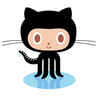
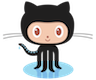
Various clean up items.

diff --git a/_layouts/base.html b/_layouts/base.html
@@ -27,16 +27,14 @@ layout: compress
     <title>Istio / {{ page.title }}</title>
     {% endif %}
 
+    <!-- Google Analytics -->
     <script>
-  (function(i,s,o,g,r,a,m){i['GoogleAnalyticsObject']=r;i[r]=i[r]||function(){
-  (i[r].q=i[r].q||[]).push(arguments)},i[r].l=1*new Date();a=s.createElement(o),
-  m=s.getElementsByTagName(o)[0];a.async=1;a.src=g;m.parentNode.insertBefore(a,m)
-  })(window,document,'script','https://www.google-analytics.com/analytics.js','ga');
-
-  ga('create', 'UA-98480406-1', 'auto');
-  ga('send', 'pageview');
-
-</script>
+        window.ga=window.ga||function(){(ga.q=ga.q||[]).push(arguments)};ga.l=+new Date;
+        ga('create', 'UA-98480406-1', 'auto');
+        ga('send', 'pageview');
+    </script>
+    <script async src='https://www.google-analytics.com/analytics.js'></script>
+    <!-- End Google Analytics -->
 
     <!-- Webfont -->
     <link href='https://fonts.googleapis.com/css?family=Roboto:400,100,100italic,300,300italic,400italic,500,500italic,700,700italic,900,900italic' rel='stylesheet' type='text/css'>
@@ -83,9 +81,5 @@ layout: compress
     <script src="{{home}}/js/buttons.js"></script>
     <script src="{{home}}/js/search.js"></script>
     <script src="{{home}}/js/prism.js"></script>
-
-    {% if page.customjs %}
-      <script async="" defer="" type="text/javascript" src="{{ page.customjs }}"></script>
-    {% endif %}
   </body>
 </html>

diff --git a/_sass/modules/_footer.scss b/_sass/modules/_footer.scss
@@ -97,7 +97,7 @@ footer {
   }
 
   .github {
-    @include social-icon('../img/icon_github.svg');
+    @include social-icon('../img/github.png');
   }
 
   .group {
@@ -106,10 +106,6 @@ footer {
 
   .stack-overflow {
     @include social-icon('../img/stackoverflow.png');
-  }
-
-  .slack {
-    @include social-icon('../img/slack.png');
   }
 
   .twitter {

diff --git a/_sass/base/_common.scss b/_sass/base/_common.scss
@@ -67,10 +67,14 @@ th {
 //    z-index: -1;
   }
 
+  div.toolbar {
+    top: -2px;
+  }
+
   .toolbar-item {
     a {
        background-color: $mainBrandColor;
-       color: $white
+       color: $white;
     }
   }
 }

diff --git a/_sass/layouts/_blog.scss b/_sass/layouts/_blog.scss
@@ -133,9 +133,10 @@
       }
     }
   }
-  .rssLink{
-    position:absolute;
-    top:-33px;
-    right:0px;
+
+  .rssLink {
+    position: absolute;
+    top: 10px;
+    right: 0px;
   }
 }

diff --git a/_includes/doc-side-nav.html b/_includes/doc-side-nav.html
@@ -39,11 +39,3 @@
 	</script>
 	{% endif %}
 </ul>
-
-<style>
-    .tree li { padding-left: 20px; }
-    .tree-toggle {
-        cursor: pointer;
-		margin-left: -1em;
-    }
-</style>

diff --git a/_sass/modules/_doc-nav.scss b/_sass/modules/_doc-nav.scss
@@ -93,3 +93,12 @@
         font-weight: normal;
     }
 }
+
+.tree li {
+    padding-left: 20px;
+}
+
+.tree-toggle {
+    cursor: pointer;
+    margin-left: -1em;
+}
